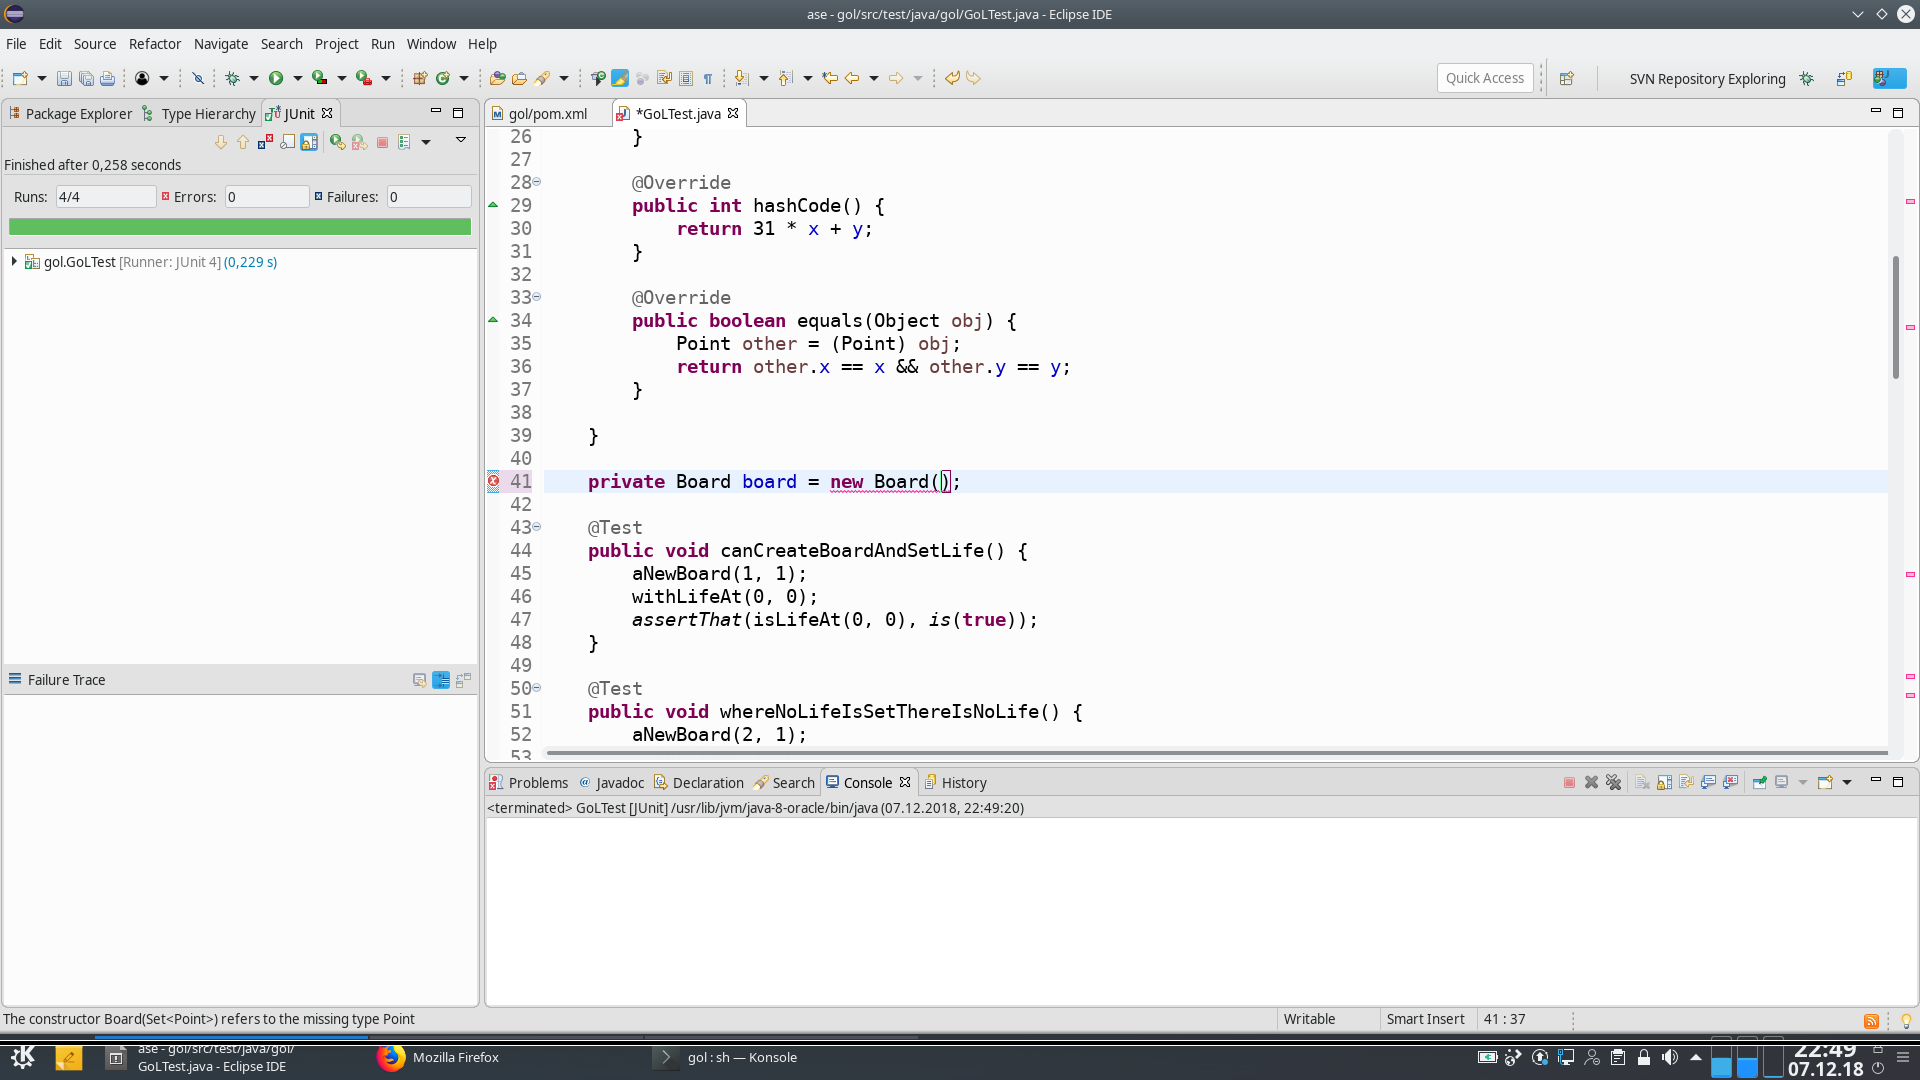
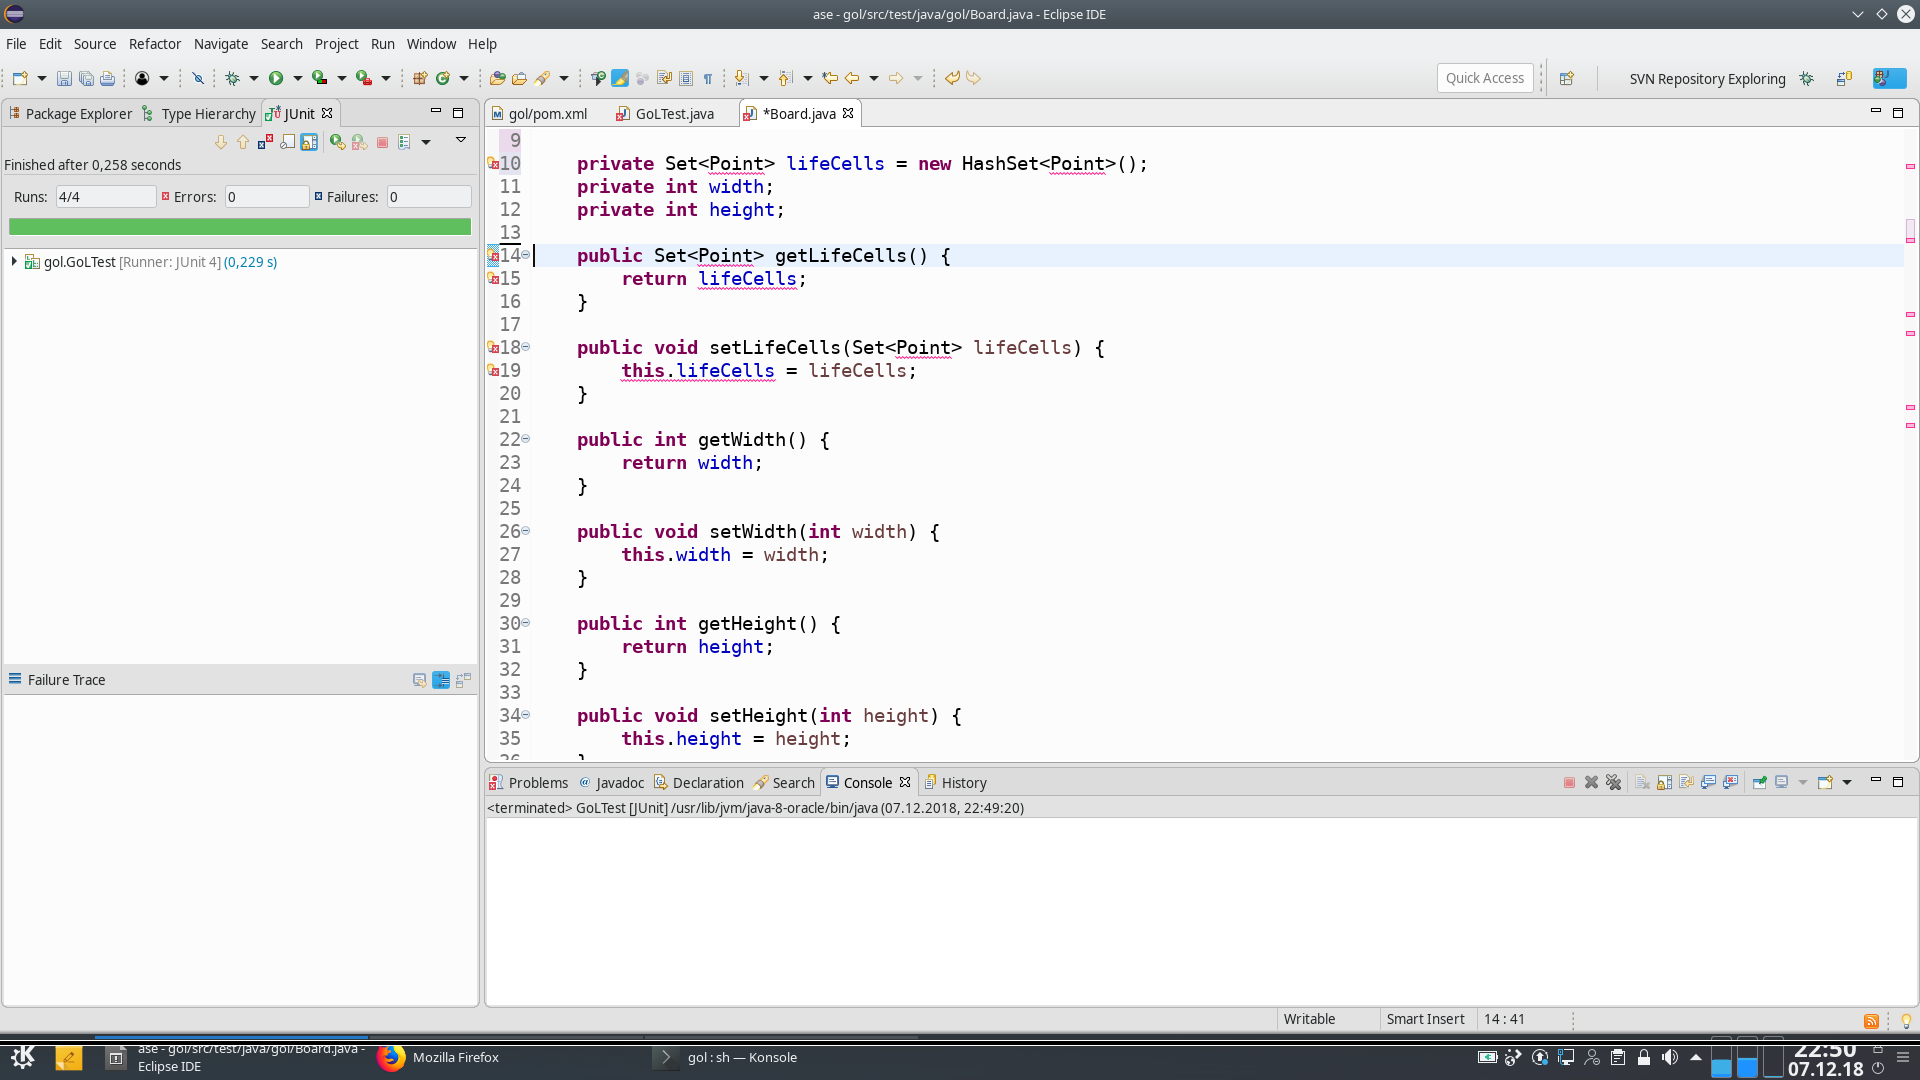
autocommit on change

diff --git a/src/test/java/gol/Board.java b/src/test/java/gol/Board.java
@@ -1,17 +1,15 @@
 package gol;
 
+import java.util.HashSet;
 import java.util.Set;
 
 import gol.GoLTest.Point;
 
 public class Board {
-	private Set<Point> lifeCells;
+
+	private Set<Point> lifeCells = new HashSet<Point>();
 	private int width;
 	private int height;
-
-	public Board(Set<Point> lifeCells) {
-		this.lifeCells = lifeCells;
-	}
 
 	public Set<Point> getLifeCells() {
 		return lifeCells;
